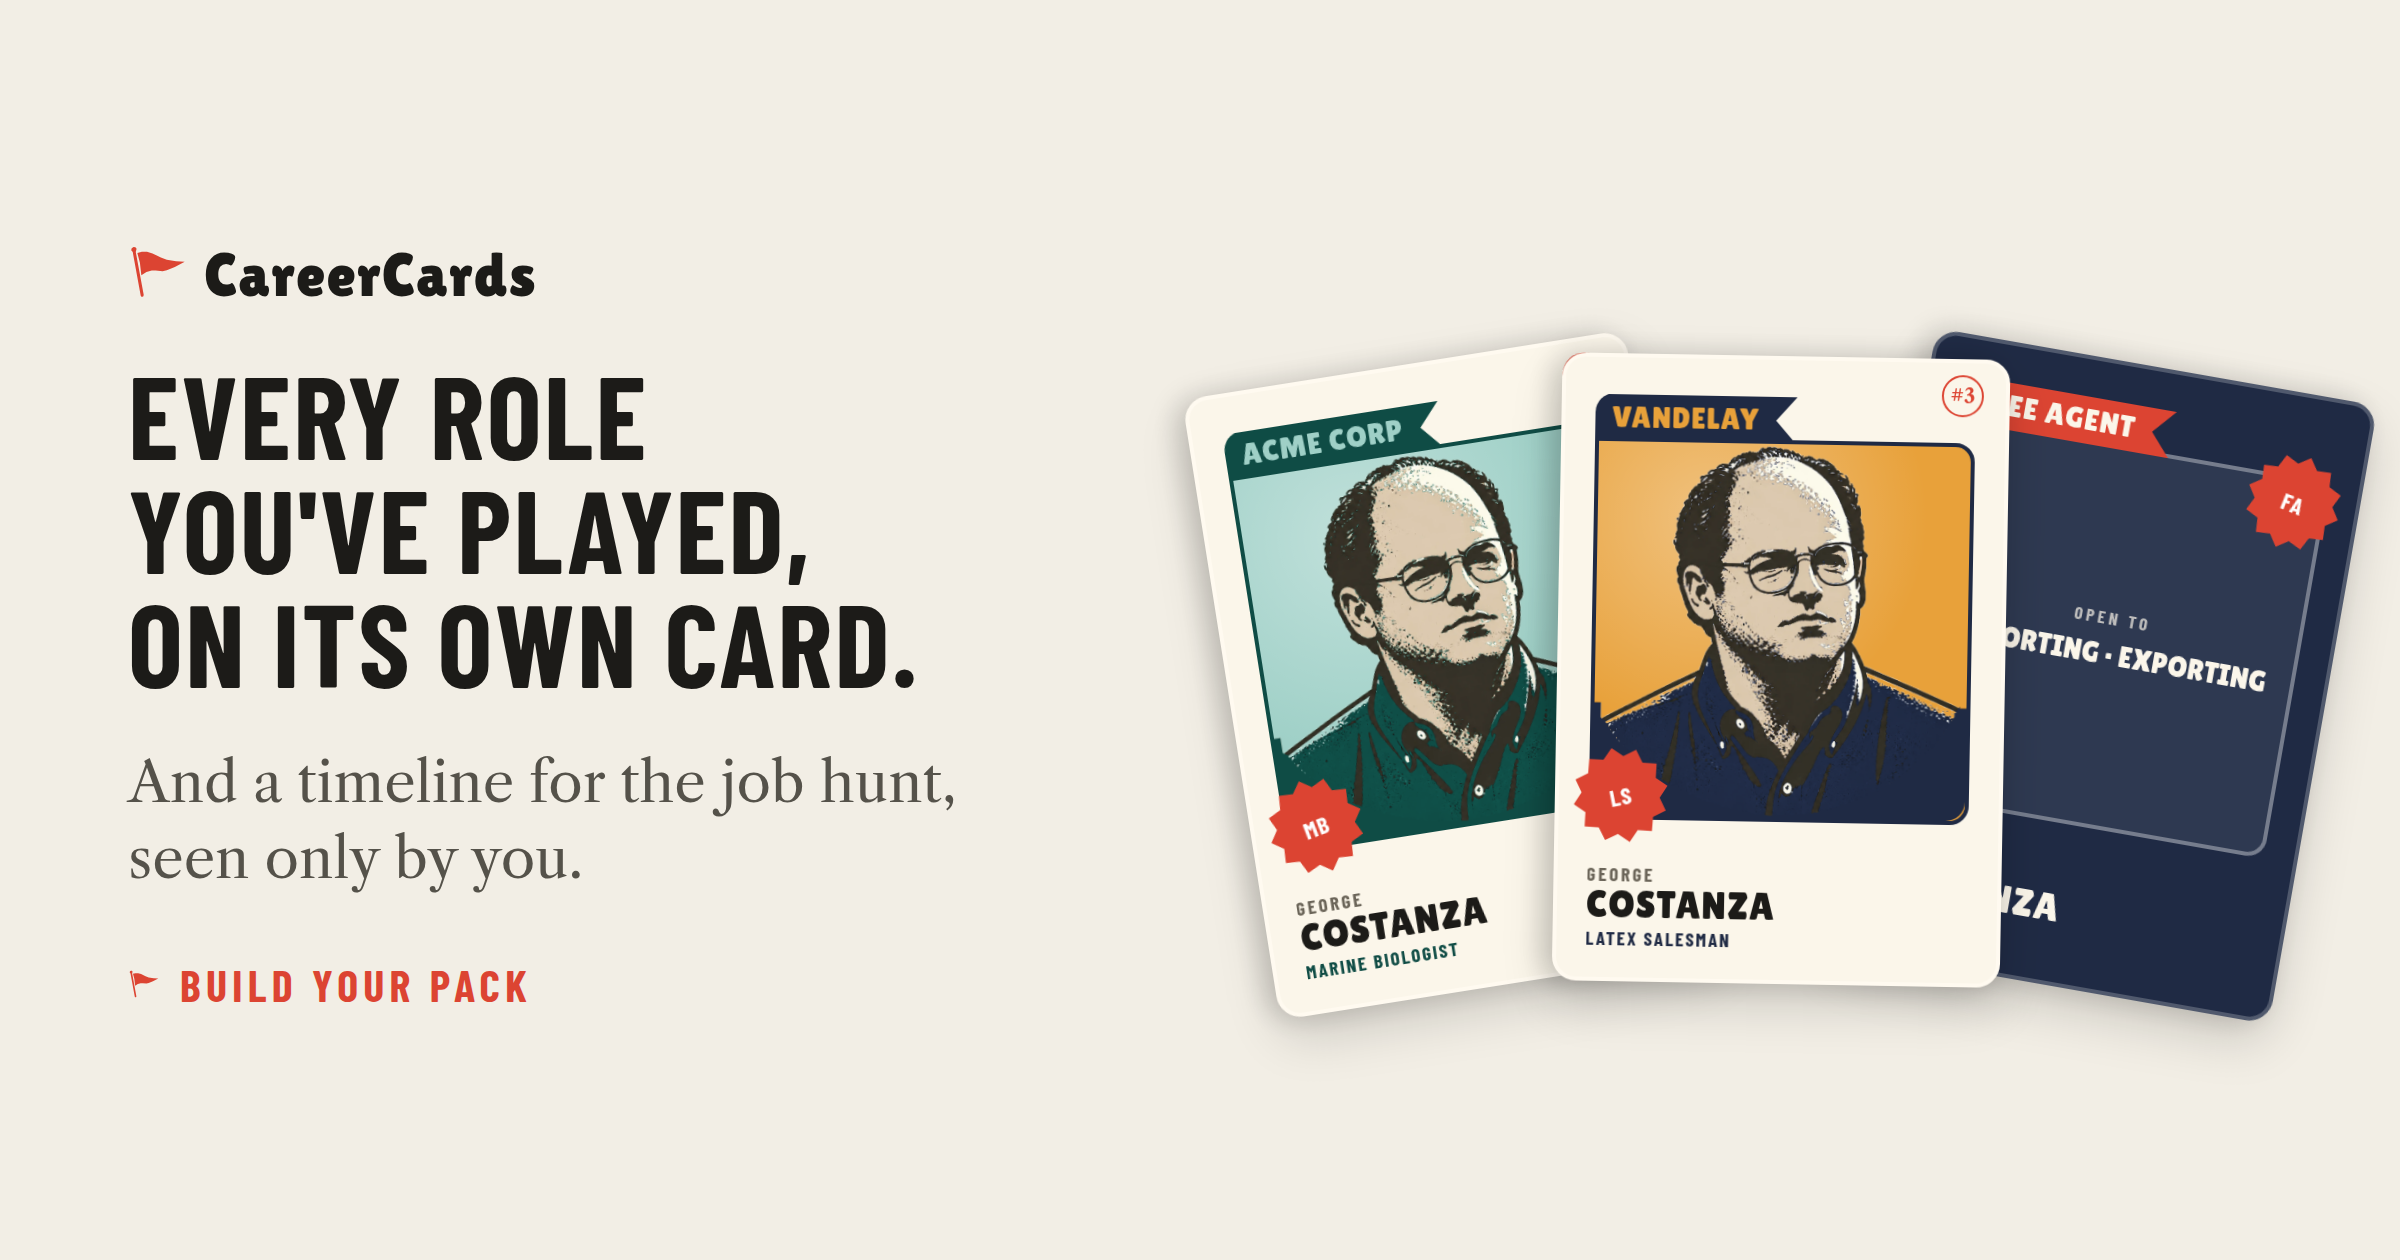
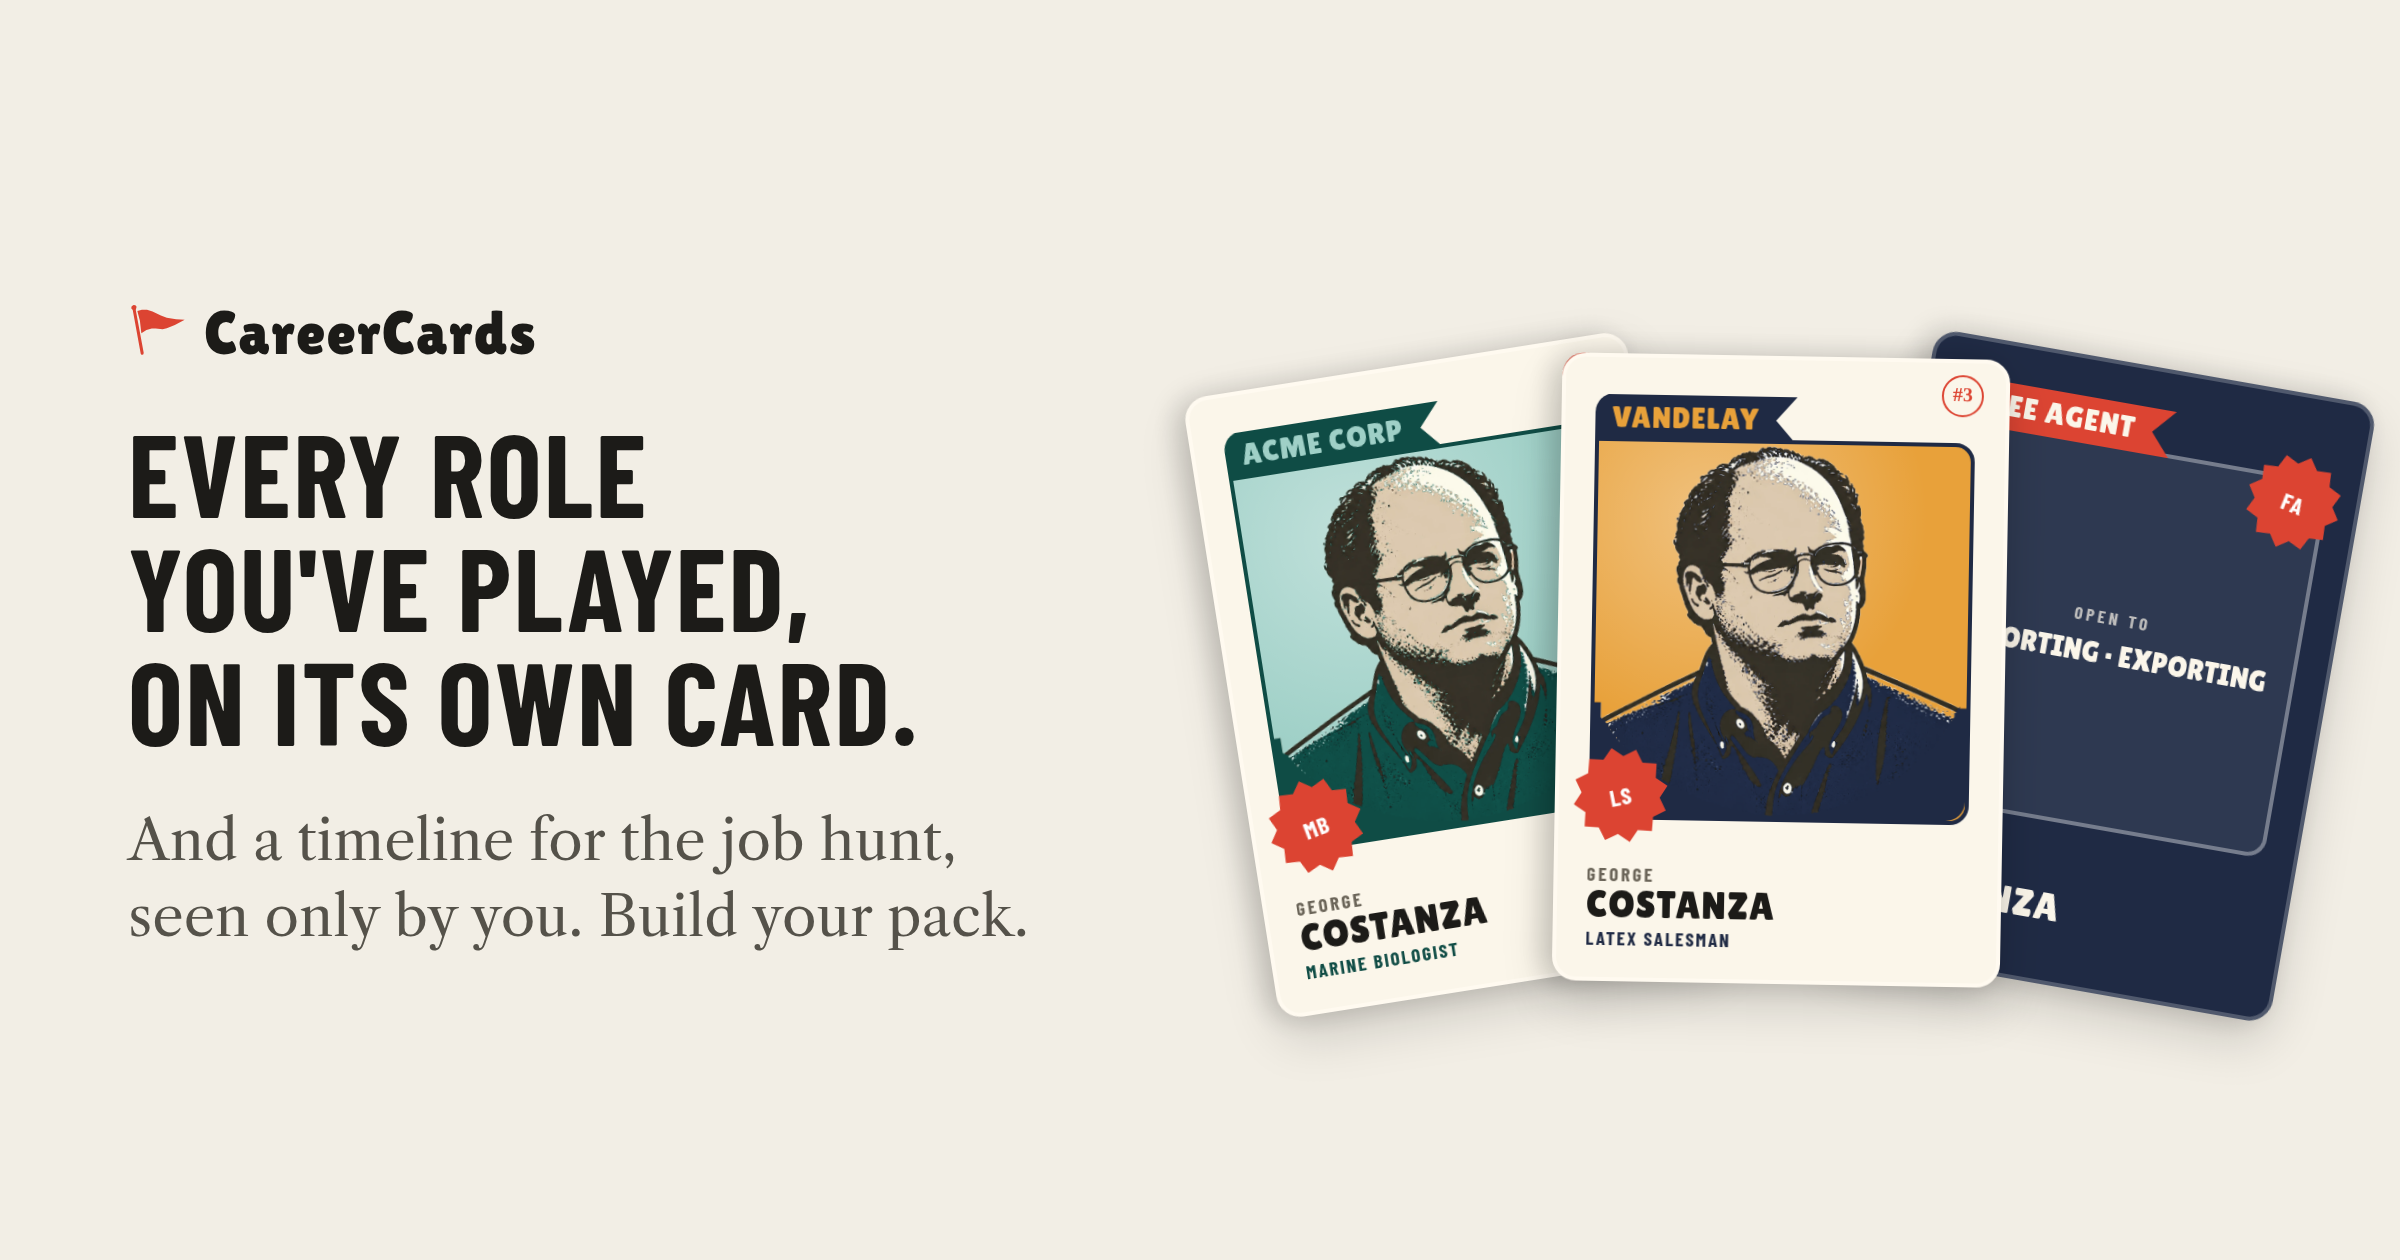
Share card: Build your pack joins the timeline sentence
Claude-Session: https://claude.ai/code/session_01Gm8UBWtQbn8uv3sSjieU6q

Changed region(s): [[0.0312, 0.1857, 0.4375, 0.7429], [0.0625, 0.7738, 0.2188, 0.8048]]

diff --git a/web/src/app/globals.css b/web/src/app/globals.css
@@ -460,8 +460,7 @@ kbd{font-family:var(--mono);font-size:11px;border:1px solid var(--hair);border-r
 .landing.share{--hw:224px;width:1200px;height:630px;max-width:none;margin:0;padding:0 64px;display:grid;grid-template-columns:minmax(0,1fr) max-content;gap:36px;align-items:center;background:var(--bg);overflow:hidden}
 .landing.share .wordmark{font-size:30px;margin-bottom:26px}
 .landing.share h1{font:700 58px/.98 var(--cond);letter-spacing:.02em;text-transform:uppercase;margin-bottom:18px}
-.landing.share p{font:400 28px/1.35 var(--serif);color:var(--ink-2);max-width:24ch;margin-top:24px}
-.landing.share .go{display:inline-flex;align-items:center;gap:10px;margin-top:30px;font:700 22px var(--cond);letter-spacing:.12em;text-transform:uppercase;color:var(--red)}
+.landing.share p{font:400 28px/1.35 var(--serif);color:var(--ink-2);max-width:26ch;margin-top:24px}
 .landing.share .hand{margin-right:8px}
 .landing.share .hand .card{transition:none;cursor:default}
 

diff --git a/web/src/app/share-card/page.tsx b/web/src/app/share-card/page.tsx
@@ -14,8 +14,7 @@ export default function ShareCard() {
       <div className="copy">
         <span className="wordmark"><Flag size={30} /><span>CareerCards</span></span>
         <h1>Every role you&apos;ve played, on its own card.</h1>
-        <p>And a timeline for the job hunt, seen only by you.</p>
-        <div className="go"><Flag size={16} />Build your pack</div>
+        <p>And a timeline for the job hunt, seen only by you. Build your pack.</p>
       </div>
       <div className="hand">
         {hand.map((r, i) => <RoleCard key={r.id} S={S} r={r} idx={S.roles.indexOf(r)} total={S.roles.length} className={'h' + i} />)}
